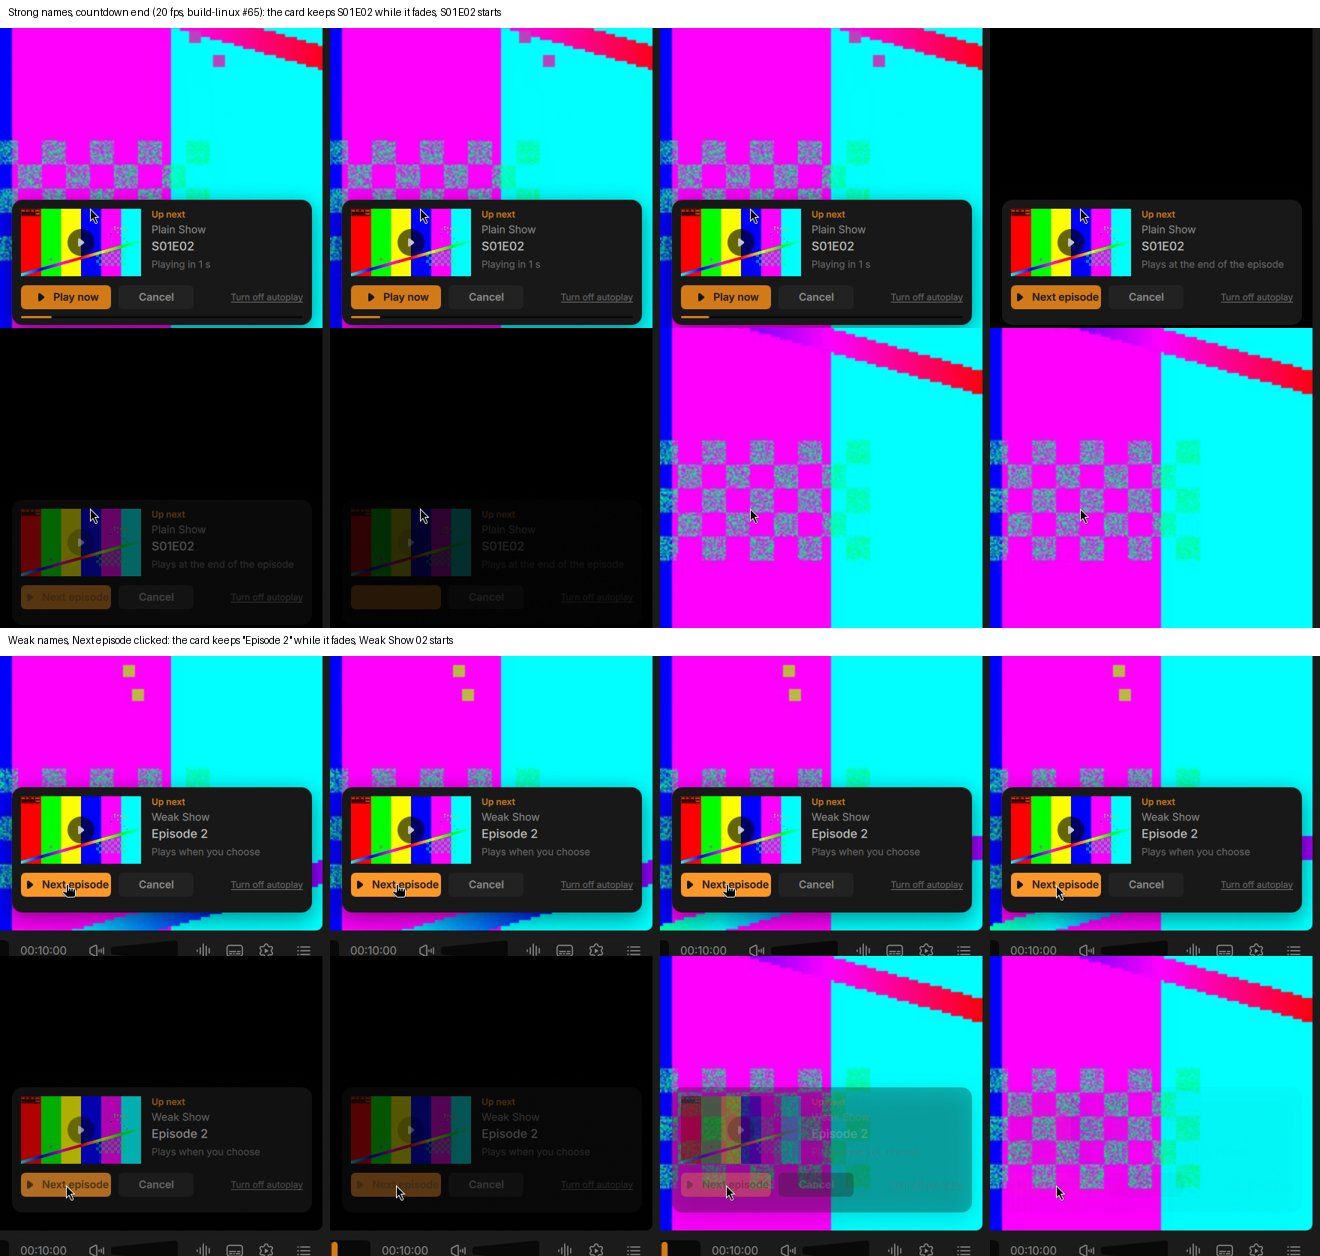
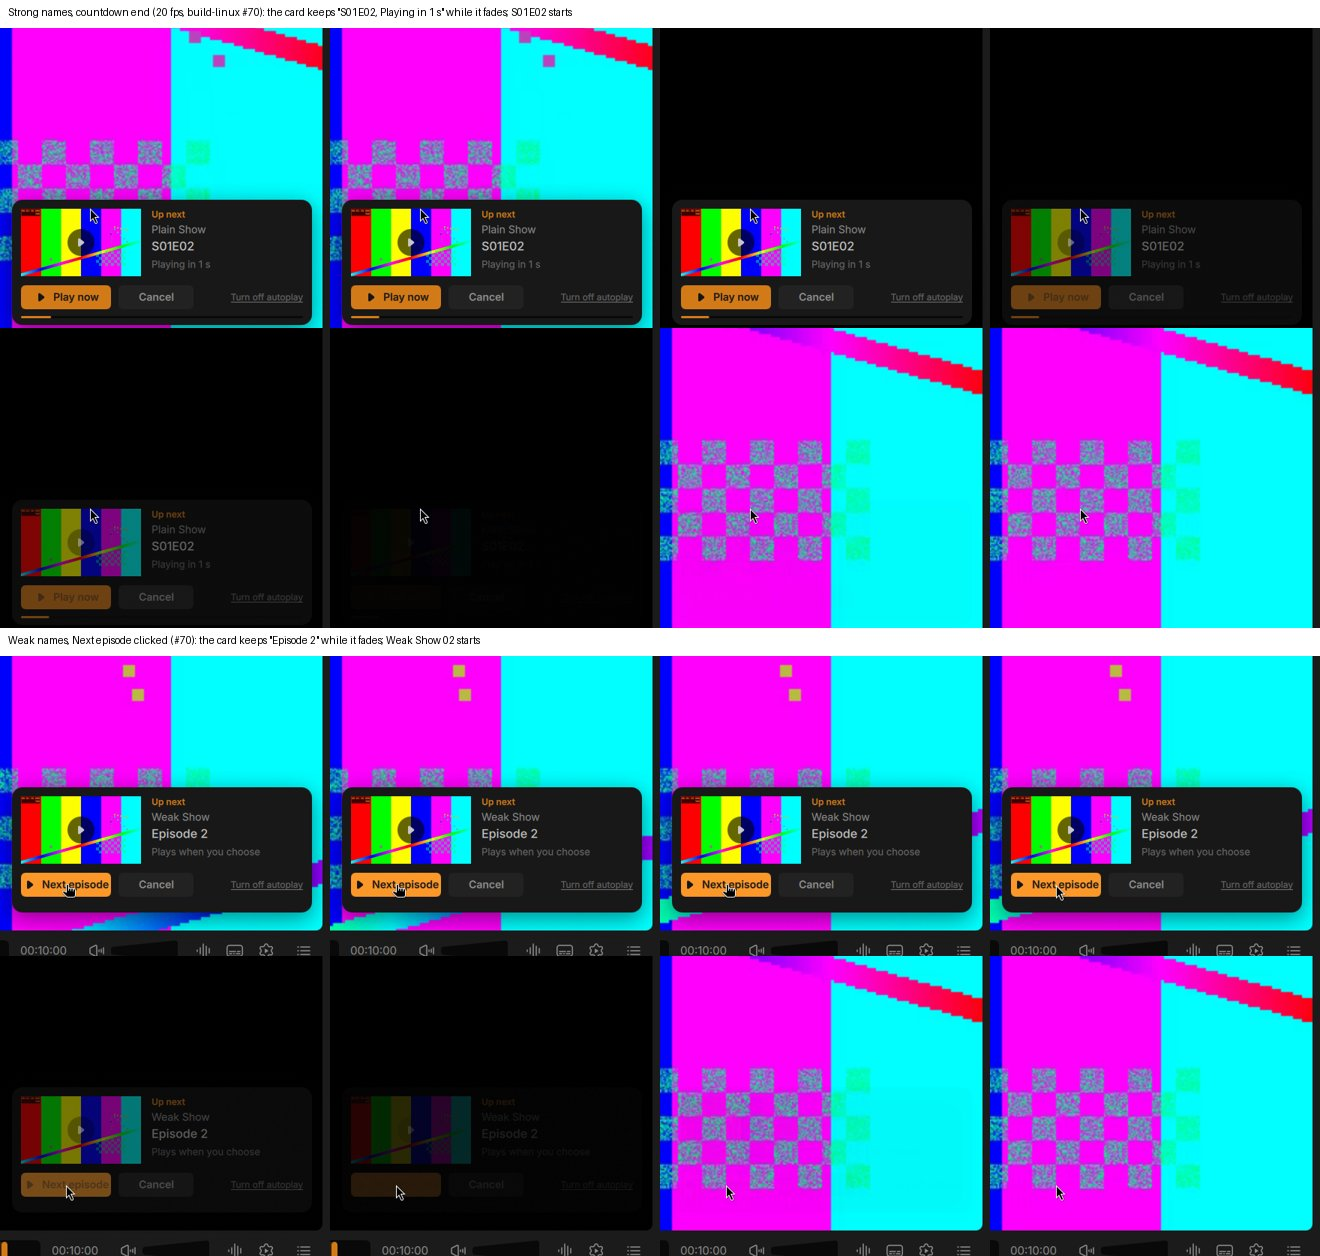
Up Next card notes: runs, sandbox results, the fade frames of build-linux #70 [skip ci]
Claude-Session: https://claude.ai/code/session_01Q5W7rfFwkurSTdGY9s6BBU

diff --git a/redesign/FIX_UP_NEXT_CARD_NOTES.md b/redesign/FIX_UP_NEXT_CARD_NOTES.md
@@ -30,10 +30,24 @@ Branch `wip/fix-up-next-card`, made from `origin/wip/next-test` (with #87 merged
 - `qmlcheck.py`: errors 1 (the known HighResolutionTimeWidget stub), crashed 0; `buildlists.py`: 0 problems; `privacycheck.py`: 0 problems.
 
 ## Runs
-Filled in when done.
+| Run | Head | Result |
+|---|---|---|
+| build-windows #162, build-linux #63 | 6f2ffad23b (button, frozen texts) | green; the recording showed the card coming back with the episode after it (the real cause) |
+| build-windows #165, build-linux #65 | 16085f3c6c (no stale time) | green; one frame of "Plays at the end of the episode" at full opacity before the fade |
+| **build-windows #167, build-linux #70** | **2ab12be858** (hide before the countdown stops) | **green, smoke included** |
+
+**Linux sandbox on build-linux #70** (Xvfb, AT-SPI, 10-minute generated episodes):
+| Check | Result |
+|---|---|
+| invoke: "Turn off autoplay" is a push button with a Press action; the activate action hides the card, logs "autoplay turned off from the card", no countdown afterwards | 5 of 5 |
+| keyboard: Tab reaches "Turn off autoplay" (11 presses from the video), Return turns autoplay off and hides the card | 4 of 4 |
+| strong names, countdown end, 20 fps recording | the card keeps "S01E02, Playing in 1 s" through its fade; S01E02 starts; no other text at any frame |
+| weak names, Next episode, 20 fps recording | the card keeps "Episode 2, Plays when you choose" through its fade; Weak Show 02 starts |
+
+Picture: `redesign/fix-shots/up_next_card_hide.jpg` (the frames around the fade, both cases). The Windows-only part (UI Automation's Invoke and Narrator) is retest step 1 below.
 
 ## Windows retest (PC session)
-Build: `gh workflow run build-windows.yml --ref wip/fix-up-next-card`. A show folder with 3+ strong episodes (`Show S01E01.mkv` …) and one with 4 weak ones (`Show 01.mkv` …), each over 10 minutes; Play episodes in a row On.
+Build: build-windows #167 (or `gh workflow run build-windows.yml --ref wip/fix-up-next-card`). A show folder with 3+ strong episodes (`Show S01E01.mkv` …) and one with 4 weak ones (`Show 01.mkv` …), each over 10 minutes; Play episodes in a row On.
 1. **Invoke.** Seek to 1 min before the end of S01E01: the card shows. With Accessibility Insights (or Narrator: move to "Turn off autoplay", Caps Lock+Enter), invoke **Turn off autoplay**: the card goes, nothing plays at the end, Settings > Playback > Episodes > Play episodes in a row is Off. Turn it On again.
 2. **Keyboard.** Card up again: Tab to Next episode, Tab to Cancel, Tab to Turn off autoplay (its text lights up): **Enter** turns it off. Again with **Space**.
 3. **Inspect.** Accessibility Insights shows "Turn off autoplay" as a **Button** with the Invoke pattern.
